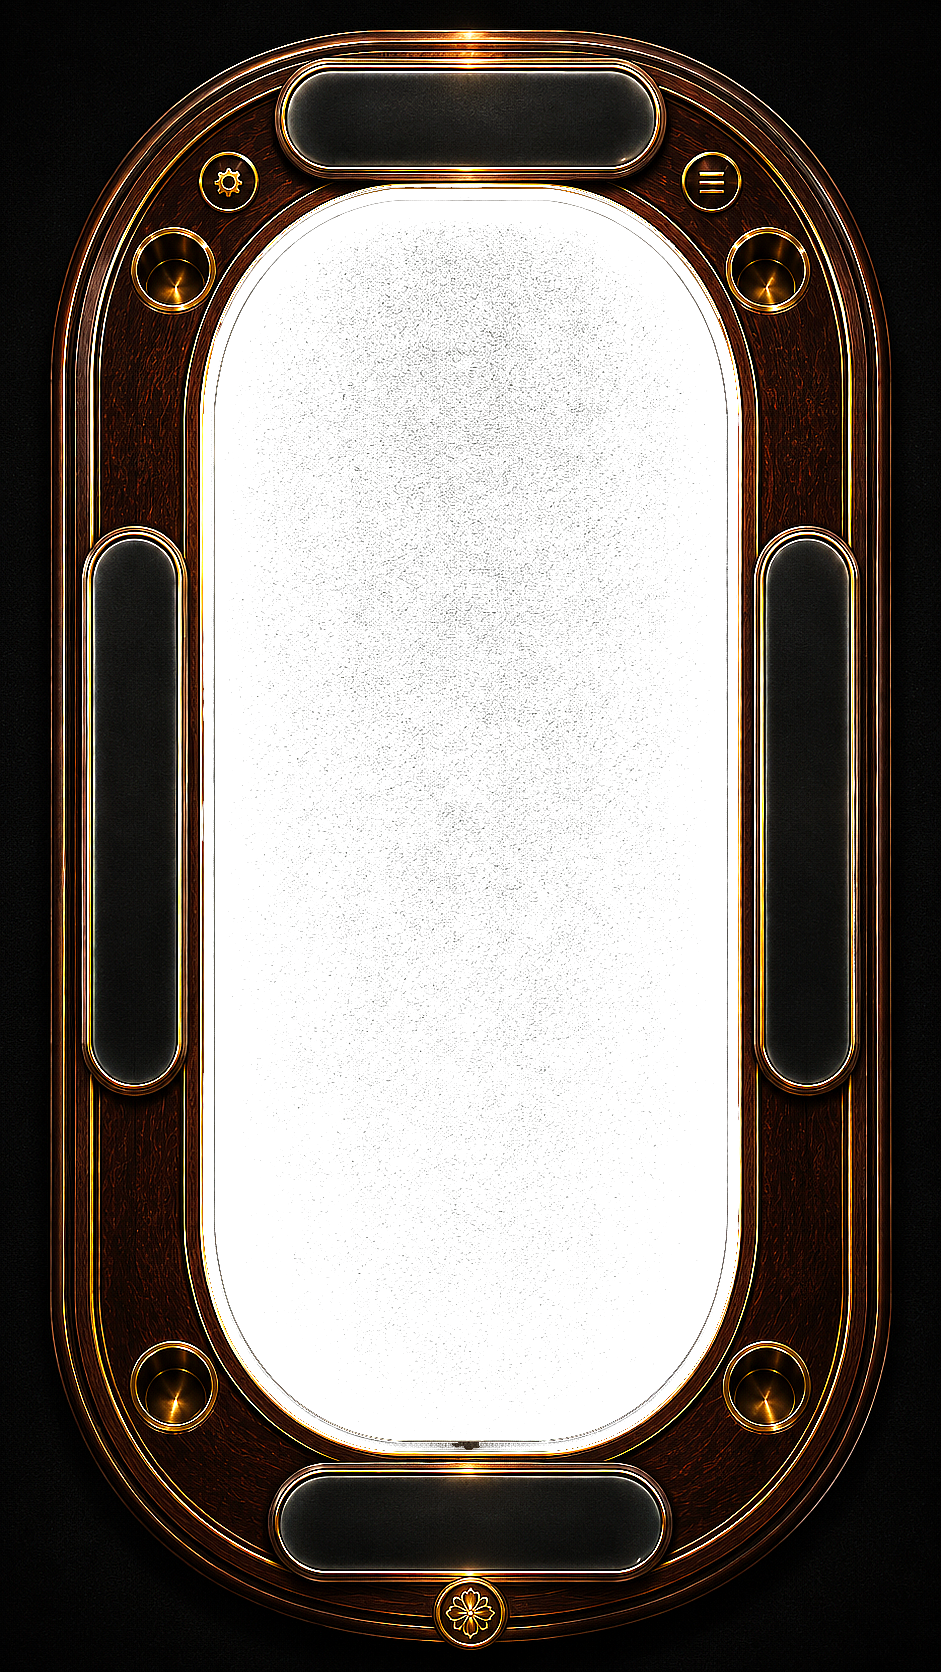
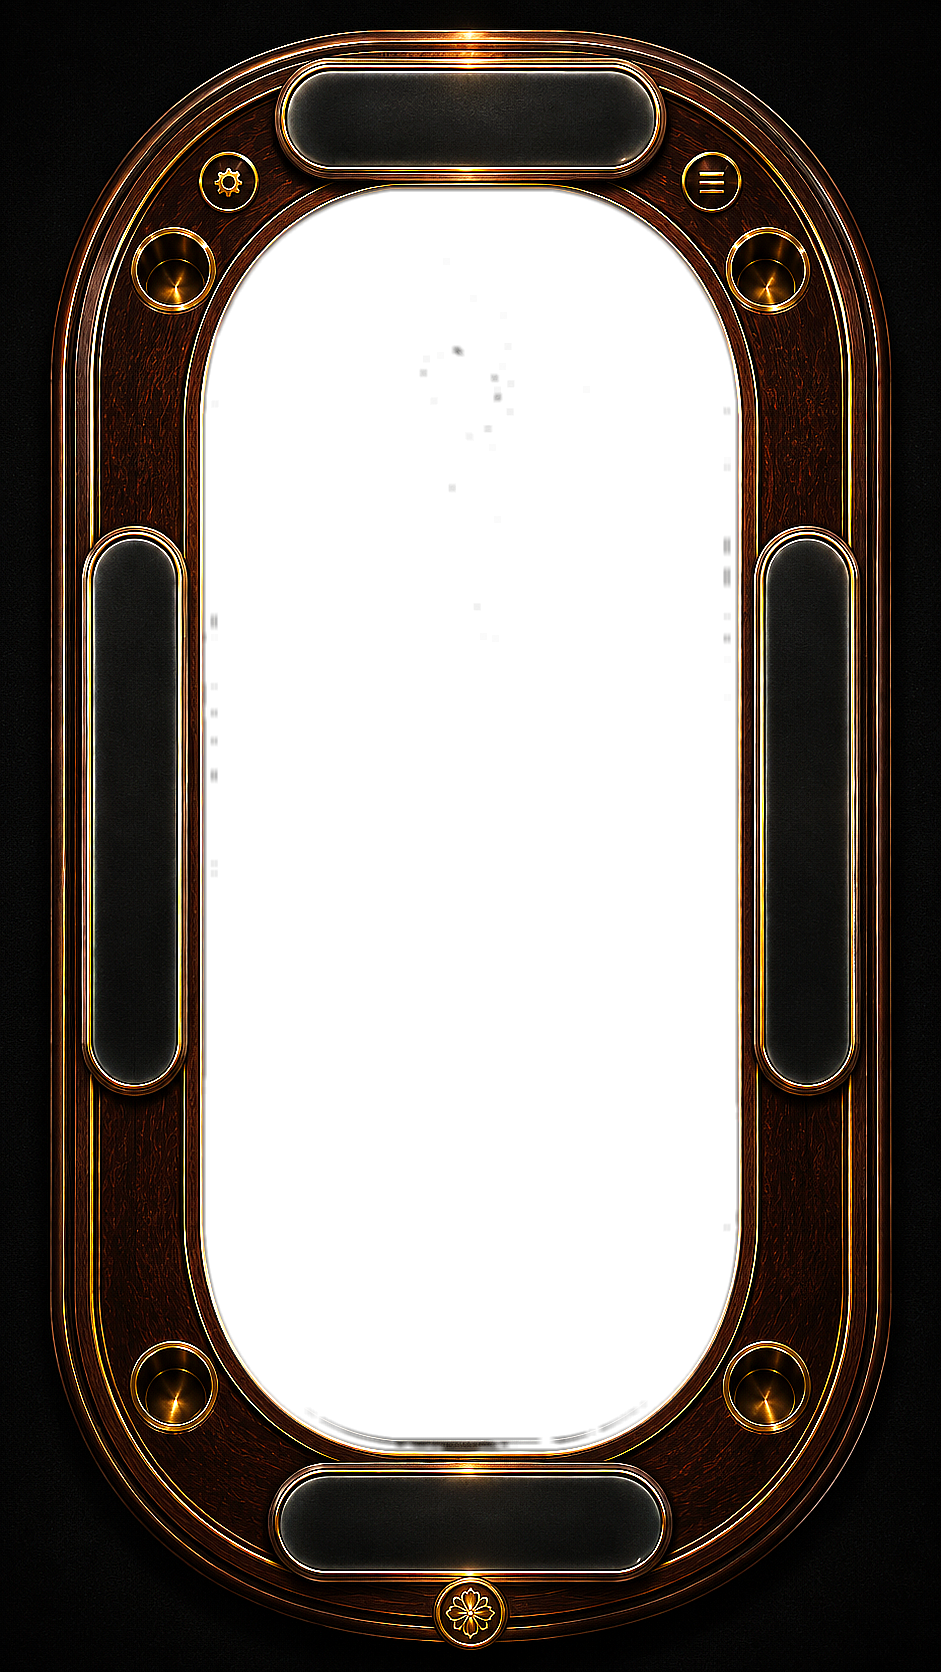
fix(ui): derive table-shell-frame alpha binarily from the mask, then blur the edge
Round 3 still let per-pixel luminance leak into the final alpha for pixels
already proven to be inside the connected hole (via flood-fill), so dust/grain
pixels with elevated luminance produced visible speckle (3.84% of the hole box
had alpha>60). Connectivity already answers "is this pixel part of the hole" -
a local brightness spike inside that region is noise, not signal.

- Final alpha is now mask[i] ? 0 : 255 (binary), not punchBlackToAlpha's feather.
  punchBlackToAlpha itself and its tests are untouched, just no longer called here.
- New scripts/lib/blurAlphaChannel.js: pure two-pass box blur over the alpha
  channel, softening the binary mask's hard edge into a smooth few-pixel
  transition without any luminance input, so it can't reintroduce the bug.
- Retuned FLOOD_THRESHOLD 40->27: removing the feather also removed a small
  positive alpha contribution the old code was getting from masked shadow
  pixels in the plaque/gear/hamburger checks, which had been propping up
  already-thin passing margins. Lowering the flood threshold trims that
  marginal shadow over-inclusion without shrinking the actual hole (hole box
  stays ~100% masked at both 40 and 27; whole-image coverage moves <0.3pp).
- Tightened the hole speckle-fraction gate from <=5% (step=3 sampling) to
  <=1% (step=1, full resolution) - the actual result is now 0.00%.

All 20 lib tests pass; all 6 build-script checks pass at their real,
[…]

diff --git a/scripts/build-table-shell-frame.js b/scripts/build-table-shell-frame.js
@@ -1,25 +1,48 @@
 // scripts/build-table-shell-frame.js
 // One-off dev tool: alpha-punches FRAME-C-NOFELT-01A.png's opaque-black center into real
 // transparency so packages/ui/src/TableShell.tsx can composite it over a felt image at
-// runtime. Uses flood-fill connectivity masking to distinguish the felt hole (punched
-// transparent) from disconnected dark regions like plaques and buttons (kept opaque).
+// runtime. Uses flood-fill connectivity masking to distinguish the felt hole from disconnected
+// dark regions like plaques and buttons (kept opaque).
+//
+// The final alpha is derived BINARILY from the (closed) connectivity mask — mask[i] ? 0 : 255
+// — not from punchBlackToAlpha's per-pixel luminance feather. Connectivity already proved which
+// pixels are part of the hole; re-deriving alpha from a masked-in pixel's own luminance let dust/
+// grain/highlight specks inside the hole (which are still <= the flood threshold, or get pulled
+// in by closeMaskGaps, but have elevated luminance) produce visible mid-range alpha "speckle".
+// The binary mask has a hard, jagged 0/255 edge, so the alpha channel is blurred afterward to
+// soften that edge into a smooth few-pixel transition, without reintroducing luminance
+// sensitivity (the blur smooths the mask's edge geometry, not per-pixel brightness).
+//
 // Not part of the app build — run manually: node scripts/build-table-shell-frame.js
 const path = require('path');
 const sharp = require('sharp');
-const { punchBlackToAlpha } = require('./lib/punchBlackToAlpha');
 const { floodFillHoleMask, closeMaskGaps } = require('./lib/floodFillHoleMask');
+const { blurAlphaChannel } = require('./lib/blurAlphaChannel');
 
 const SOURCE = path.join(
   __dirname, '..', 'docs', 'references', 'GPT-powerful-assets-review', 'FRAME-C-NOFELT-01A.png'
 );
 const OUTPUT = path.join(__dirname, '..', 'packages', 'ui', 'assets', 'table', 'table-shell-frame.png');
 
-const LOW_THRESHOLD = 22;
-const HIGH_THRESHOLD = 80;
-const FLOOD_THRESHOLD = 40;
+// Retuned down from 40: under the old per-pixel-luminance-feather approach, masked pixels with
+// luminance in the (22,40] band still contributed nonzero opacity (up to ~79 alpha), which
+// happened to keep the plaque/gear/hamburger region-average checks above their thresholds even
+// though a modest amount of their shadow area gets pulled into the connectivity mask by
+// FLOOD_THRESHOLD=40. Switching to binary mask->alpha (this rework) removes that nonzero
+// contribution entirely (masked now always means alpha=0), so that same amount of mask
+// over-inclusion now reads as a real opacity drop and regresses those checks. Measured directly:
+// FLOOD_THRESHOLD=40 covers the felt hole box at 100.00% either way, and 27 still covers it at
+// 99.99% (i.e. the actual hole is unaffected), while whole-image mask coverage barely moves
+// (40.57% -> 40.36%) — the difference is only the marginal shadow-bridging into frame regions
+// that the old feathering was inadvertently compensating for. 27 keeps a comfortable safety
+// margin below FLOOD_THRESHOLD=29, where a single connectivity bridge pixel flips the
+// gear-icon region from passing to failing.
+const FLOOD_THRESHOLD = 27;
+const EDGE_BLUR_RADIUS = 3;
 
 async function main() {
   const { data, info } = await sharp(SOURCE).ensureAlpha().raw().toBuffer({ resolveWithObject: true });
+  const pixelCount = info.width * info.height;
 
   // Compute flood-fill mask from the known center seed, generously including antialiased edges
   const seedX = Math.round(info.width * 0.5);
@@ -31,18 +54,24 @@ async function main() {
   // over-closing into frame regions
   holeMask = closeMaskGaps(holeMask, info.width, info.height, 3, 0.5);
 
-  // Apply alpha punch to all pixels
-  const punched = punchBlackToAlpha(data, { lowThreshold: LOW_THRESHOLD, highThreshold: HIGH_THRESHOLD });
-
-  // Restrict transparency to only masked pixels (the connected hole); force masked-out pixels back to opaque
-  for (let i = 0; i < holeMask.length; i++) {
-    if (holeMask[i] === 0) {
-      // Not part of the hole region: force alpha to 255 (fully opaque)
-      punched[i * 4 + 3] = 255;
-    }
+  // Binary alpha from the mask: no per-pixel luminance check left to trip over a dust speck
+  // once a pixel is inside the connected hole.
+  const binaryAlpha = new Uint8Array(pixelCount);
+  for (let i = 0; i < pixelCount; i++) {
+    binaryAlpha[i] = holeMask[i] === 1 ? 0 : 255;
   }
 
-  await sharp(punched, { raw: { width: info.width, height: info.height, channels: 4 } })
+  // Soften the hard binary edge into a smooth few-pixel transition by blurring the alpha
+  // channel itself (edge geometry), not by re-deriving alpha from brightness.
+  const blurredAlpha = blurAlphaChannel(binaryAlpha, info.width, info.height, EDGE_BLUR_RADIUS);
+
+  // Recombine the blurred alpha with the original RGB (unchanged).
+  const output = Buffer.from(data);
+  for (let i = 0; i < pixelCount; i++) {
+    output[i * 4 + 3] = blurredAlpha[i];
+  }
+
+  await sharp(output, { raw: { width: info.width, height: info.height, channels: 4 } })
     .png()
     .toFile(OUTPUT);
 
@@ -86,8 +115,8 @@ async function main() {
   const holeRegionAvg = measureRegionAlpha(250, 400, 700, 1250);
 
   // Check for speckles: isolated opaque pixels inside the transparent hole
-  // Sample at step=3 for denser measurement to catch fine speckle patterns
-  const holeSpeckleFraction = measureSpeckleFraction(250, 400, 700, 1250, 60, 3);
+  // Sample at full resolution (step=1) so no speckle pattern can hide between sample points
+  const holeSpeckleFraction = measureSpeckleFraction(250, 400, 700, 1250, 60, 1);
 
   // Frame regions should be opaque
   const plaqueAvg = measureRegionAlpha(60, 700, 220, 1000);
@@ -96,7 +125,7 @@ async function main() {
 
   const checks = [
     { name: 'hole region avg', value: holeRegionAvg, min: undefined, max: 50, operator: '<=' },
-    { name: 'hole speckle fraction (alpha>60)', value: holeSpeckleFraction, min: undefined, max: 0.05, operator: '<=' },
+    { name: 'hole speckle fraction (alpha>60)', value: holeSpeckleFraction, min: undefined, max: 0.01, operator: '<=' },
     { name: 'center pixel', value: centerAlpha, min: undefined, max: 10, operator: '<=' },
     { name: 'plaque region avg', value: plaqueAvg, min: 0.88 * 255, max: undefined, operator: '>=' },
     { name: 'gear-icon region avg', value: gearAvg, min: 0.78 * 255, max: undefined, operator: '>=' },

diff --git a/scripts/lib/blurAlphaChannel.test.js b/scripts/lib/blurAlphaChannel.test.js
@@ -1,0 +1,57 @@
+// scripts/lib/blurAlphaChannel.test.js
+const test = require('node:test');
+const assert = require('node:assert/strict');
+const { blurAlphaChannel } = require('./blurAlphaChannel');
+
+test('radius 0 returns an unchanged copy', () => {
+  const input = Uint8Array.from([0, 255, 0, 255, 0, 255, 0, 255, 0]);
+  const output = blurAlphaChannel(input, 3, 3, 0);
+  assert.deepEqual(Array.from(output), Array.from(input));
+  assert.notEqual(output, input, 'should return a new array, not the same reference');
+});
+
+test('uniform field is unchanged by blurring', () => {
+  const input = new Uint8Array(25).fill(128);
+  const output = blurAlphaChannel(input, 5, 5, 2);
+  for (const value of output) {
+    assert.equal(value, 128);
+  }
+});
+
+test('a hard binary edge is softened into an intermediate ramp', () => {
+  // 9x1 row: left half 0 (transparent), right half 255 (opaque), hard edge at x=4/5
+  const width = 9;
+  const input = Uint8Array.from([0, 0, 0, 0, 0, 255, 255, 255, 255]);
+  const output = blurAlphaChannel(input, width, 1, 2);
+
+  // Pixels far from the edge stay at their extreme values.
+  assert.equal(output[0], 0, 'far-left stays fully transparent');
+  assert.equal(output[8], 255, 'far-right stays fully opaque');
+
+  // Pixels straddling the boundary become intermediate values, not still hard 0/255.
+  assert.ok(output[4] > 0 && output[4] < 255, `pixel at boundary should be intermediate, got ${output[4]}`);
+  assert.ok(output[5] > 0 && output[5] < 255, `pixel just past boundary should be intermediate, got ${output[5]}`);
+});
+
+test('edge pixels use clamped sampling, not wraparound', () => {
+  // A single opaque pixel in an otherwise transparent field, in the corner.
+  const width = 5;
+  const height = 5;
+  const input = new Uint8Array(width * height).fill(0);
+  input[0] = 255; // top-left corner
+  const output = blurAlphaChannel(input, width, height, 1);
+
+  // The corner pixel's blurred value should reflect clamped edge replication (not wrap to the
+  // opposite corner), so the opposite corner must remain unaffected (0).
+  assert.equal(output[width * height - 1], 0, 'opposite corner unaffected by clamped blur');
+  assert.ok(output[0] > 0, 'the corner itself should still show some of its own contribution');
+});
+
+test('throws on mismatched buffer length', () => {
+  assert.throws(() => blurAlphaChannel(new Uint8Array(10), 3, 3, 1));
+});
+
+test('throws on negative or non-integer radius', () => {
+  assert.throws(() => blurAlphaChannel(new Uint8Array(9), 3, 3, -1));
+  assert.throws(() => blurAlphaChannel(new Uint8Array(9), 3, 3, 1.5));
+});

diff --git a/scripts/lib/blurAlphaChannel.js b/scripts/lib/blurAlphaChannel.js
@@ -1,0 +1,54 @@
+// scripts/lib/blurAlphaChannel.js
+// Pure box-blur over a single-channel (alpha) array. Used to soften the hard 0/255 edge that
+// results from binarizing a flood-fill mask directly into alpha (mask[i] ? 0 : 255): that
+// binary edge is geometrically correct (it follows real connectivity) but pixel-jagged, so we
+// blur the alpha channel itself — smoothing the mask's edge geometry — rather than re-deriving
+// alpha from per-pixel luminance, which is what let dust/grain speckles leak through before.
+// Two-pass separable box blur (horizontal then vertical) with edge-clamped sampling.
+function blurAlphaChannel(alpha, width, height, radius) {
+  if (!Number.isInteger(radius) || radius < 0) {
+    throw new Error('radius must be a non-negative integer');
+  }
+  if (alpha.length !== width * height) {
+    throw new Error('alpha length must equal width * height');
+  }
+  if (radius === 0) {
+    return Uint8Array.from(alpha);
+  }
+  const horizontal = boxBlurPass(alpha, width, height, radius, true);
+  return boxBlurPass(horizontal, width, height, radius, false);
+}
+
+function boxBlurPass(src, width, height, radius, isHorizontal) {
+  const out = new Uint8Array(width * height);
+  const windowSize = radius * 2 + 1;
+  if (isHorizontal) {
+    for (let y = 0; y < height; y++) {
+      const rowStart = y * width;
+      for (let x = 0; x < width; x++) {
+        let sum = 0;
+        for (let k = -radius; k <= radius; k++) {
+          sum += src[rowStart + clamp(x + k, 0, width - 1)];
+        }
+        out[rowStart + x] = Math.round(sum / windowSize);
+      }
+    }
+  } else {
+    for (let x = 0; x < width; x++) {
+      for (let y = 0; y < height; y++) {
+        let sum = 0;
+        for (let k = -radius; k <= radius; k++) {
+          sum += src[clamp(y + k, 0, height - 1) * width + x];
+        }
+        out[y * width + x] = Math.round(sum / windowSize);
+      }
+    }
+  }
+  return out;
+}
+
+function clamp(value, min, max) {
+  return value < min ? min : value > max ? max : value;
+}
+
+module.exports = { blurAlphaChannel };
